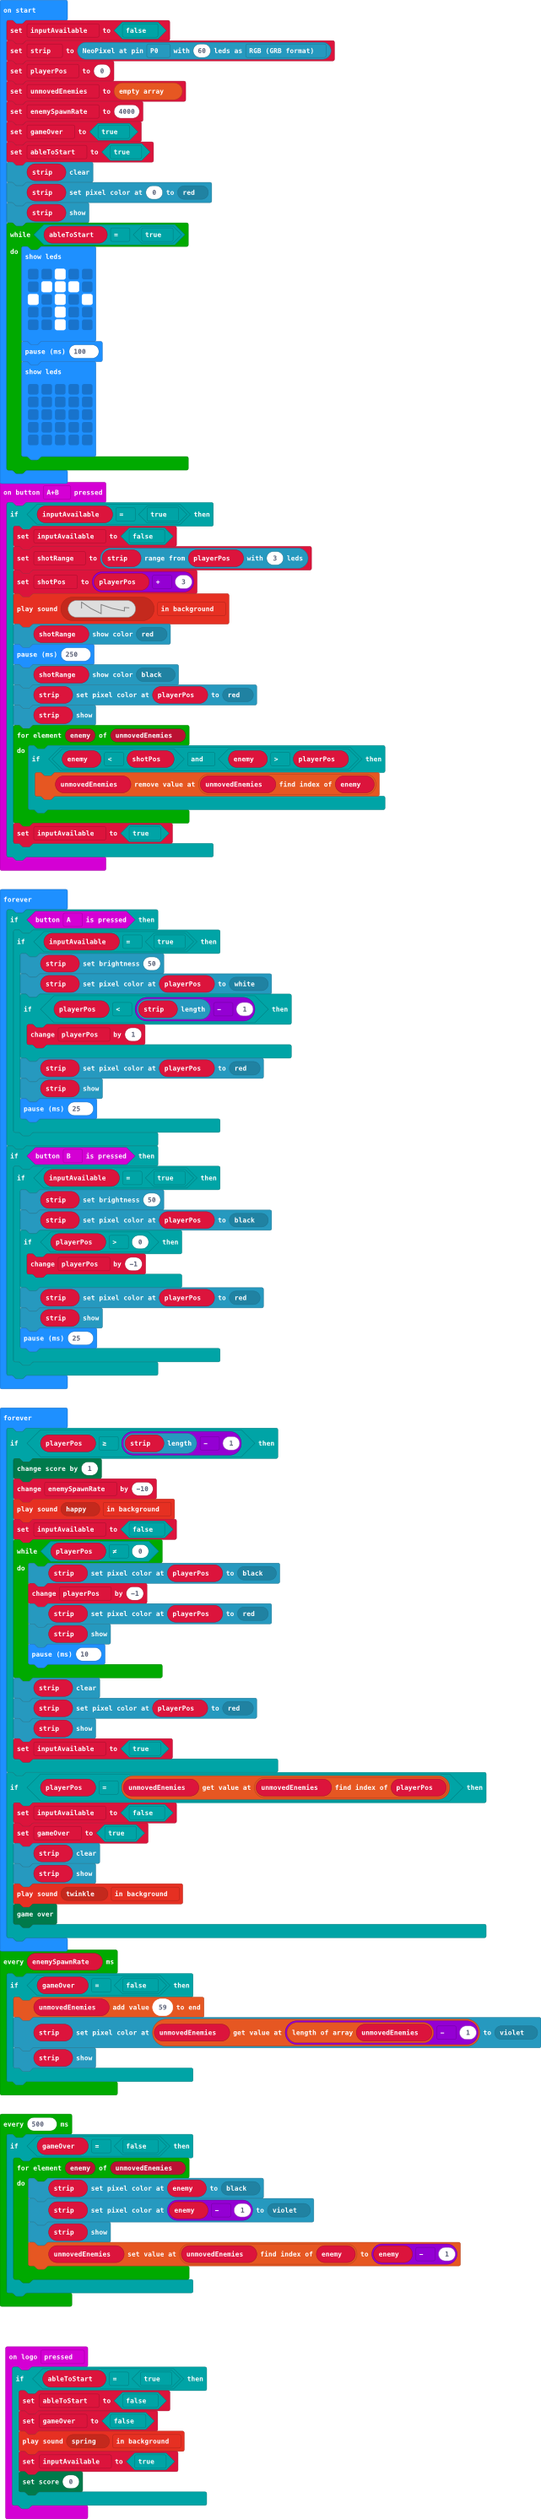
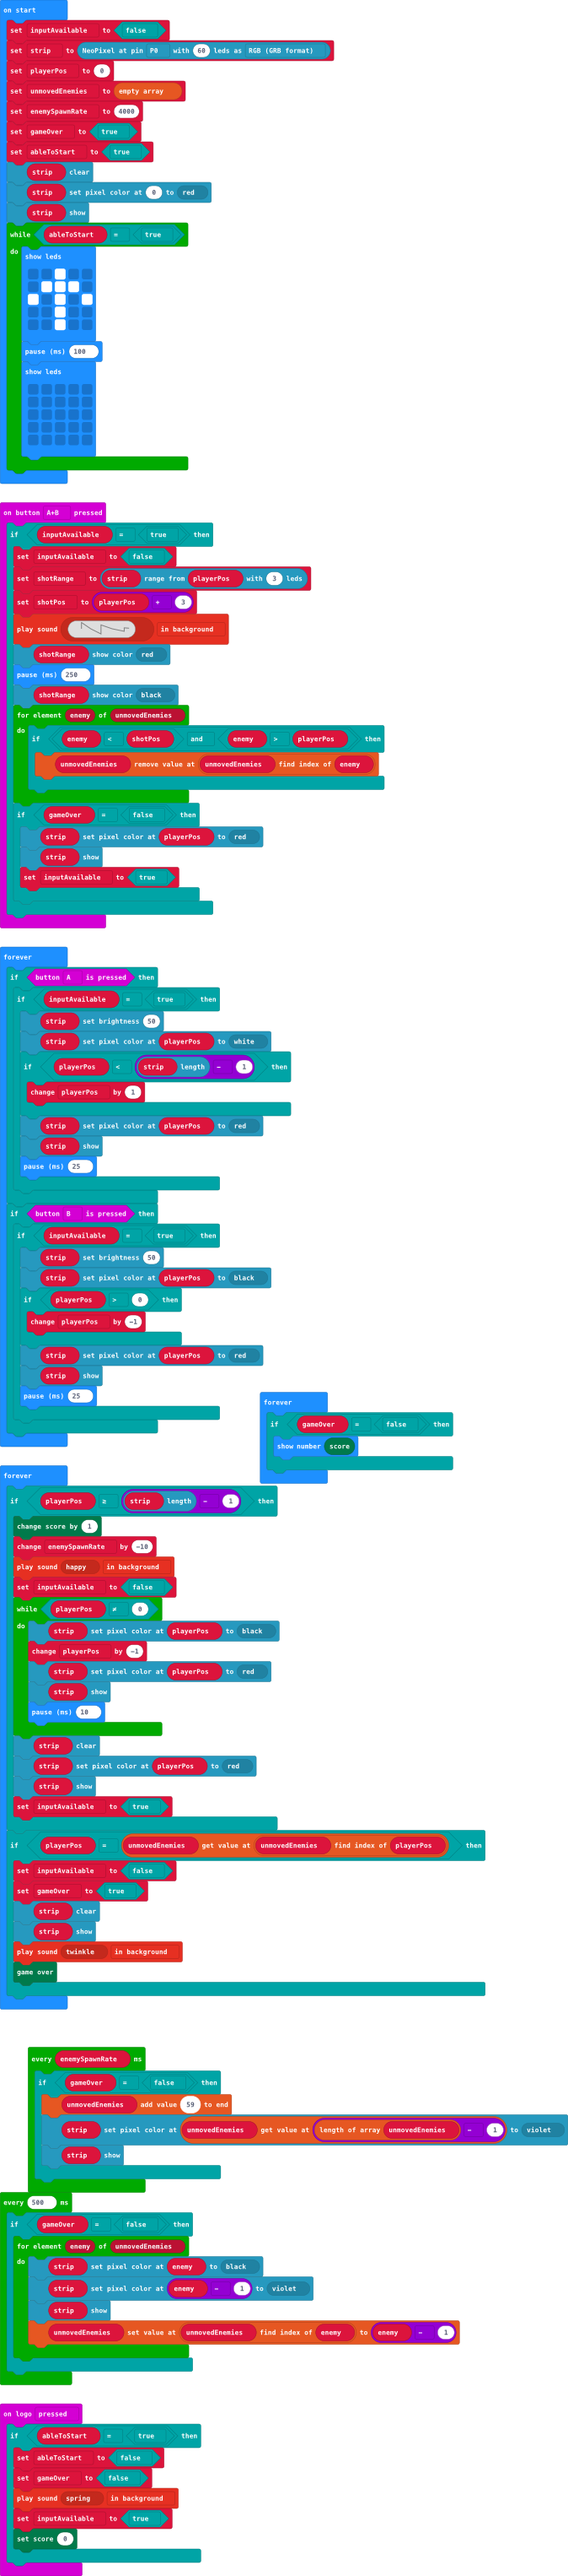
Added scoreboard in-game. Fixed a bug with player showing during game-over sequence.

diff --git a/main.ts b/main.ts
@@ -7,14 +7,16 @@ input.onButtonPressed(Button.AB, function () {
         shotRange.showColor(neopixel.colors(NeoPixelColors.Red))
         basic.pause(250)
         shotRange.showColor(neopixel.colors(NeoPixelColors.Black))
-        strip.setPixelColor(playerPos, neopixel.colors(NeoPixelColors.Red))
-        strip.show()
         for (let enemy of unmovedEnemies) {
             if (enemy < shotPos && enemy > playerPos) {
                 unmovedEnemies.removeAt(unmovedEnemies.indexOf(enemy))
             }
         }
-        inputAvailable = true
+        if (gameOver == false) {
+            strip.setPixelColor(playerPos, neopixel.colors(NeoPixelColors.Red))
+            strip.show()
+            inputAvailable = true
+        }
     }
 })
 input.onLogoEvent(TouchButtonEvent.Pressed, function () {
@@ -95,6 +97,11 @@ basic.forever(function () {
             strip.show()
             basic.pause(25)
         }
+    }
+})
+basic.forever(function () {
+    if (gameOver == false) {
+        basic.showNumber(game.score())
     }
 })
 basic.forever(function () {
